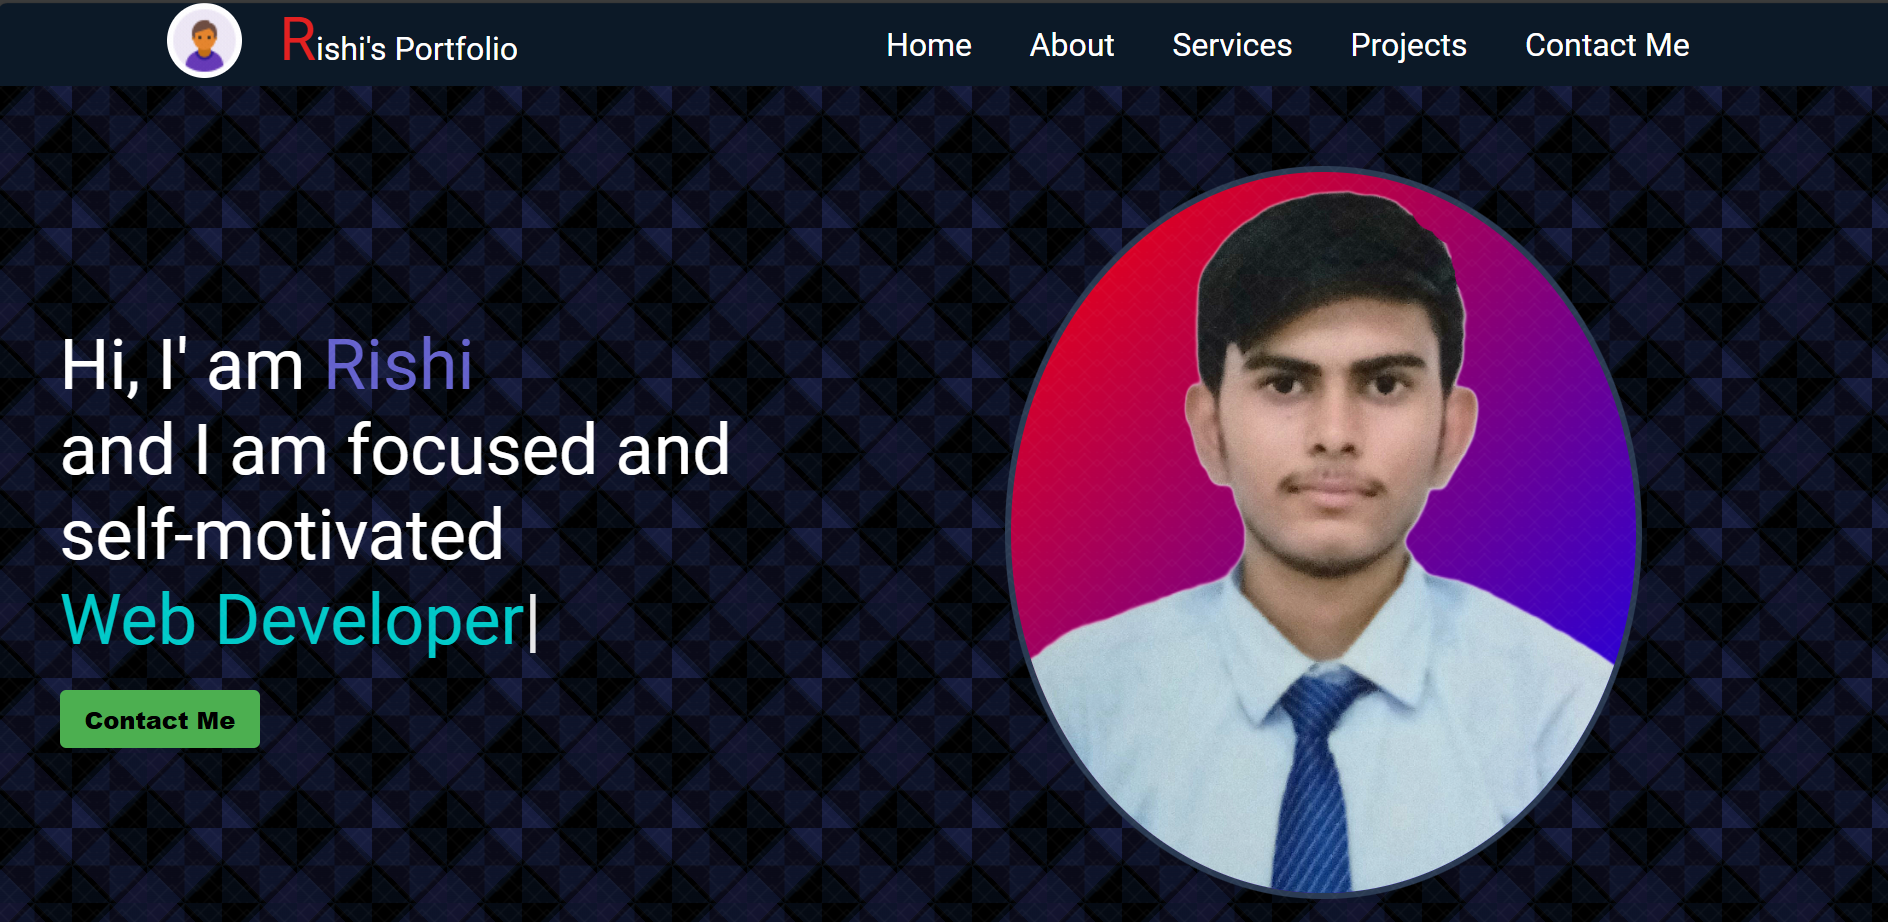
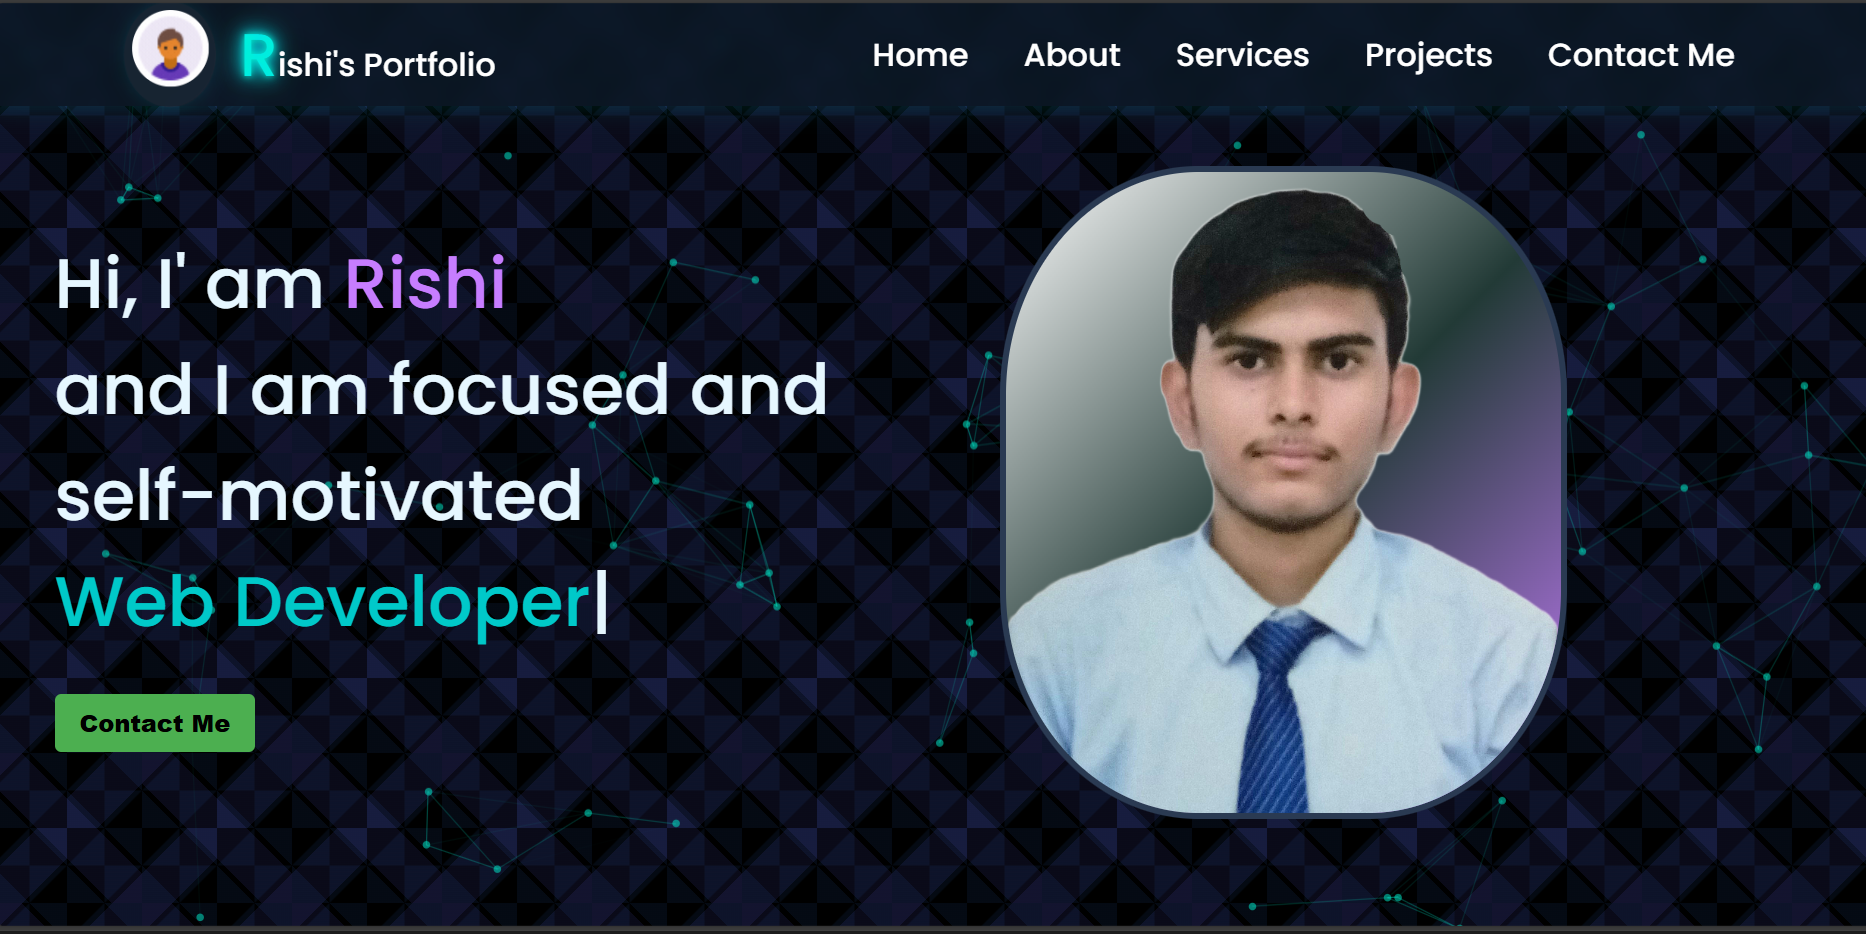
footer

diff --git a/css/PC.css b/css/PC.css
@@ -296,9 +296,9 @@ main hr {
 }
 
 .rightSection img {
-  width: 450px;
-  border-radius: 50%;
-  background: linear-gradient(135deg, #ff4d6d, #00f5d4, #c77dff);
+  width: 444px;
+  border-radius: 35%;
+  background: linear-gradient(135deg, #ffffff, #223a36, #c77dff);
   border: 5px solid #2a3a52;
 }
 
@@ -489,6 +489,15 @@ main hr {
 
 .tech-pink {
   background: linear-gradient(135deg, #f472b6, #ec4899);
+}
+
+.tech-gray {
+  background: linear-gradient(135deg, #4a4749, #3e393b);
+}
+
+.tech-black {
+  background: linear-gradient(135deg, #000000, #000000);
+
 }
 
 .action-buttons {
@@ -1255,55 +1264,153 @@ form {
 /*Footer starts*/
 footer {
   margin-top: 100px;
-  background-color: #0c1927;
+  background: radial-gradient(ellipse at center, #0c1927, #050a15);
+  color: white;
   position: relative;
-  bottom: 0px;
+  padding: 40px 20px 0;
+  font-family: 'Segoe UI', Tahoma, Geneva, Verdana, sans-serif;
+  box-shadow: 0 0 20px rgba(0, 255, 255, 0.1);
 }
 
 .footer {
-  align-items: center;
   display: flex;
-  padding: 20px 0px;
-  justify-content: space-evenly;
-
-}
-
-.footer ul {
-  list-style: none;
-  color: azure;
-  font-size: 1.4rem;
+  flex-wrap: wrap;
+  justify-content: space-between;
+  align-items: flex-start;
+  max-width: 1200px;
+  margin: 0 auto;
+  gap: 40px;
 }
 
 .footer>div {
-  width: 230px;
-  font-size: 1.8rem;
+  /* flex: 1 1 250px; */
+  min-width: 200px;
 }
 
-footer .footer-rights {
-  text-align: center;
-  color: gray;
-  padding: 12px 0;
+/* === Footer First: Title === */
+.footer-first {
+  font-size: 2rem;
+  font-weight: bold;
+  color: #00ffd0;
+  text-shadow: 0 0 10px #00ffd0;
+}
+
+/* === Footer Second: Nav Links === */
+.footer-second ul {
+  list-style: none;
+  padding: 0;
+}
+
+.footer-second ul li {
+  margin-bottom: 15px;
 }
 
 .footer-second ul li a {
-  color: white;
   text-decoration: none;
+  color: #e6f7ff;
+  font-size: 1.6rem;
+  transition: all 0.3s ease;
 }
 
-div .footer-third ul li {
-  font-size: 1.1rem;
-  display: inline;
-  padding: 10px;
+.footer-second ul li a:hover {
+  color: #ff4d6d;
+  text-shadow: 0 0 5px #ff4d6d;
 }
 
-footer .footer-third ul img {
-  cursor: pointer;
-  width: 50px;
-  transition: transform 0.5s;
+/* === Footer Third: Social === */
+.footer-third ul {
+  padding: 0;
+  list-style: none;
+  display: flex;
+  flex-direction: column;
+  gap: 10px;
 }
 
-footer .footer .footer-third img:hover {
-  transform: translateY(-5px);
+.footer-third ul li:first-child {
+  font-size: 1.2rem;
+  color: #00ffd0;
+  font-weight: bold;
+  margin-bottom: 10px;
 }
+
+.footer-third ul li a img {
+  width: 40px;
+  transition: 0.4s ease;
+  filter: drop-shadow(0 0 6px #00ffd0);
+}
+
+.footer-third ul li a img:hover {
+  transform: scale(1.15);
+  filter: drop-shadow(0 0 15px #ff4d6d);
+}
+
+/* === Rights === */
+.footer-rights {
+  text-align: center;
+  padding: 20px 10px;
+  font-size: 0.9rem;
+  color: #aaa;
+  border-top: 1px solid rgba(255, 255, 255, 0.1);
+  background: #0a141f;
+  margin-top: 20px;
+}
+
+/* === Mobile Responsive === */
+@media (max-width: 798px) {
+  .footer {
+    flex-direction: column;
+    align-items: center;
+    text-align: center;
+    gap: 20px;
+
+  }
+
+  .footer-second ul li a {
+    font-size: 1.1rem;
+  }
+
+  .footer>div {
+    width: 100%;
+    max-width: 100%;
+  }
+
+  .footer-first {
+    font-size: 1.5rem;
+    margin-bottom: 10px;
+  }
+
+  .footer-second ul li {
+    margin-bottom: 8px;
+  }
+
+  .footer-second ul li a {
+    font-size: 1rem;
+  }
+
+  .footer-third ul {
+    flex-direction: row;
+    justify-content: center;
+    align-items: center;
+    gap: 15px;
+  }
+
+  .footer-third ul li:first-child {
+    display: block;
+    font-size: 1rem;
+    color: #00ffd0;
+  }
+
+  .footer-third ul li a img {
+    width: 30px;
+  }
+
+  .footer-rights {
+    font-size: 0.75rem;
+    padding: 15px 5px;
+    line-height: 1.2;
+  }
+}
+
+
 
 /*Footer ends*/

diff --git a/index.html b/index.html
@@ -110,6 +110,9 @@
                                 <span class="tech-badge tech-blue">HTML</span>
                                 <span class="tech-badge tech-green">CSS</span>
                                 <span class="tech-badge tech-pink">JavaScript</span>
+                                <span class="tech-badge tech-gray">Github</span>
+                                <span class="tech-badge tech-black">Git</span>
+
                             </div>
                             <div class="action-buttons">
                                 <a href="https://rishi9822.github.io/Rishi-Portfolio/" target="_blank"
@@ -156,6 +159,7 @@
                                 <span class="tech-badge tech-blue">HTML</span>
                                 <span class="tech-badge tech-green">CSS</span>
                                 <span class="tech-badge tech-pink">JavaScript</span>
+                                <span class="tech-badge tech-gray">Github</span>
                             </div>
                             <div class="action-buttons">
                                 <a href="https://rishi9822.github.io/Rishi-Portfolio/" target="_blank"
@@ -202,6 +206,7 @@
                                 <span class="tech-badge tech-blue">HTML</span>
                                 <span class="tech-badge tech-green">CSS</span>
                                 <span class="tech-badge tech-pink">JavaScript</span>
+                                <span class="tech-badge tech-gray">Github</span>
                             </div>
                             <div class="action-buttons">
                                 <a href="https://rishi9822.github.io/Rishi-Portfolio/" target="_blank"
@@ -238,9 +243,8 @@
                 detail,
                 adaptability, and efficiency in teamwork, so I deliver high-quality work within a deadline. I want to
                 grow
-                professionally, meet complex challenges, and, through my contribution to the success of any
-                organization,
-                project a positive impact.<br><br>
+                professionally, meet complex challenges.
+                <br><br>
                 Feel free to explore my work, and contact me if you're interested in working together!
                 <br><br>
                 <div class="tab-titles">
@@ -496,7 +500,7 @@
             </div>
             <div class="footer-third">
                 <ul>
-                    <li>Reach Me On</li><br><br>
+                    <li>Reach Me On</li>
                     <li><a href="https://www.linkedin.com/in/rishi-patel-091226291"><img src="images/LinkedIn.png.png"
                                 alt="linkedin.com"></a></li>
                     <li><a href="https://github.com/Rishi9822"><img src="images/GitHub.png.png" alt="github.com"></a>
@@ -505,7 +509,7 @@
             </div>
         </div>
         <div class="footer-rights">
-            Copyright &#169;rishisportfolio.com | All rights reserved
+            Copyright &#169;rishi'sportfolio.com | All rights reserved
         </div>
     </footer>
     <!--footer ends here-->

diff --git a/css/Mobile.css b/css/Mobile.css
@@ -330,7 +330,7 @@
 
 
     /* footer */
-    footer {
+    /* footer {
         font-size: 10px;
     }
 
@@ -352,5 +352,5 @@
 
     footer .footer .footer-third img:hover {
         transform: translateY(-5px);
-    }
+    } */
 }
